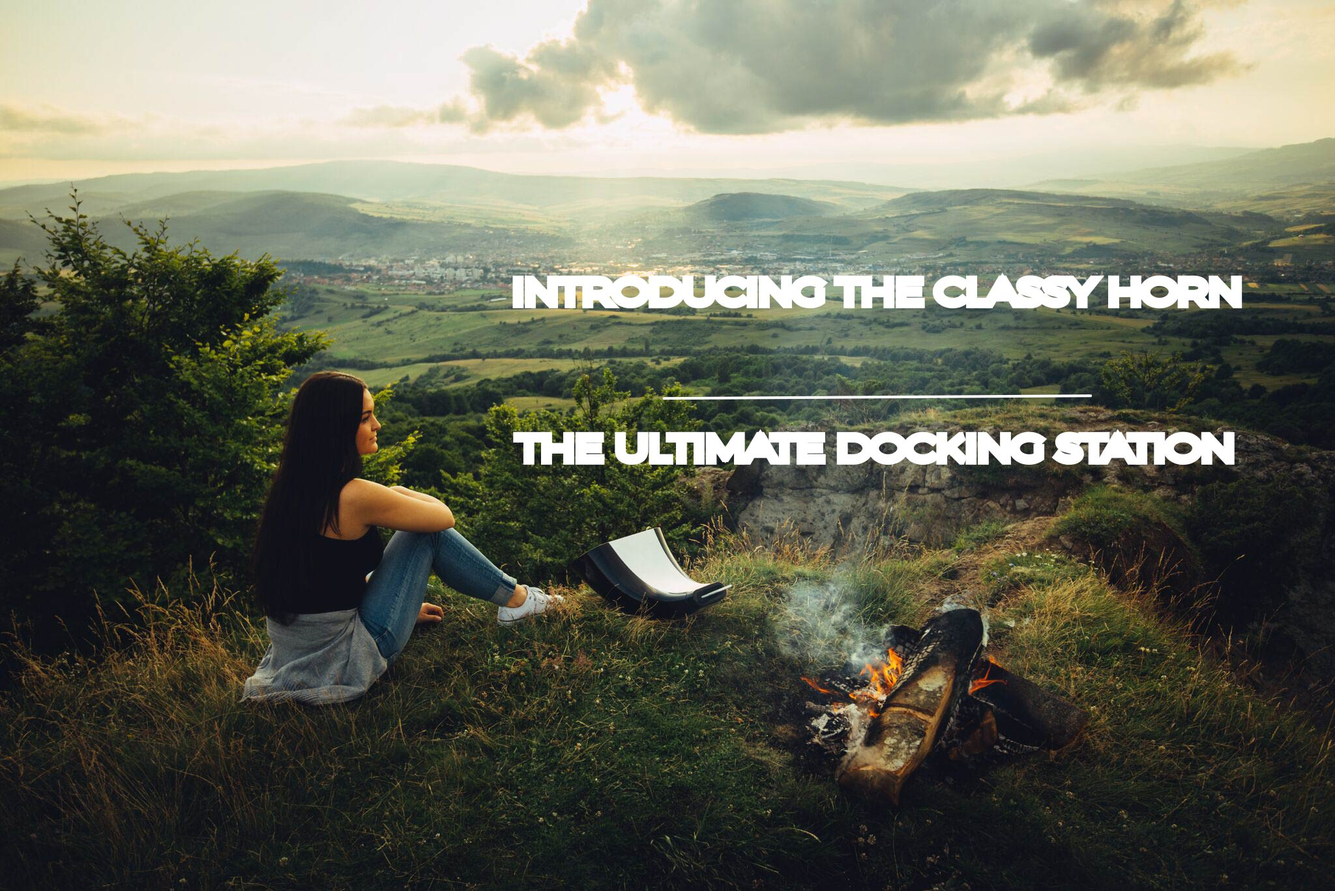
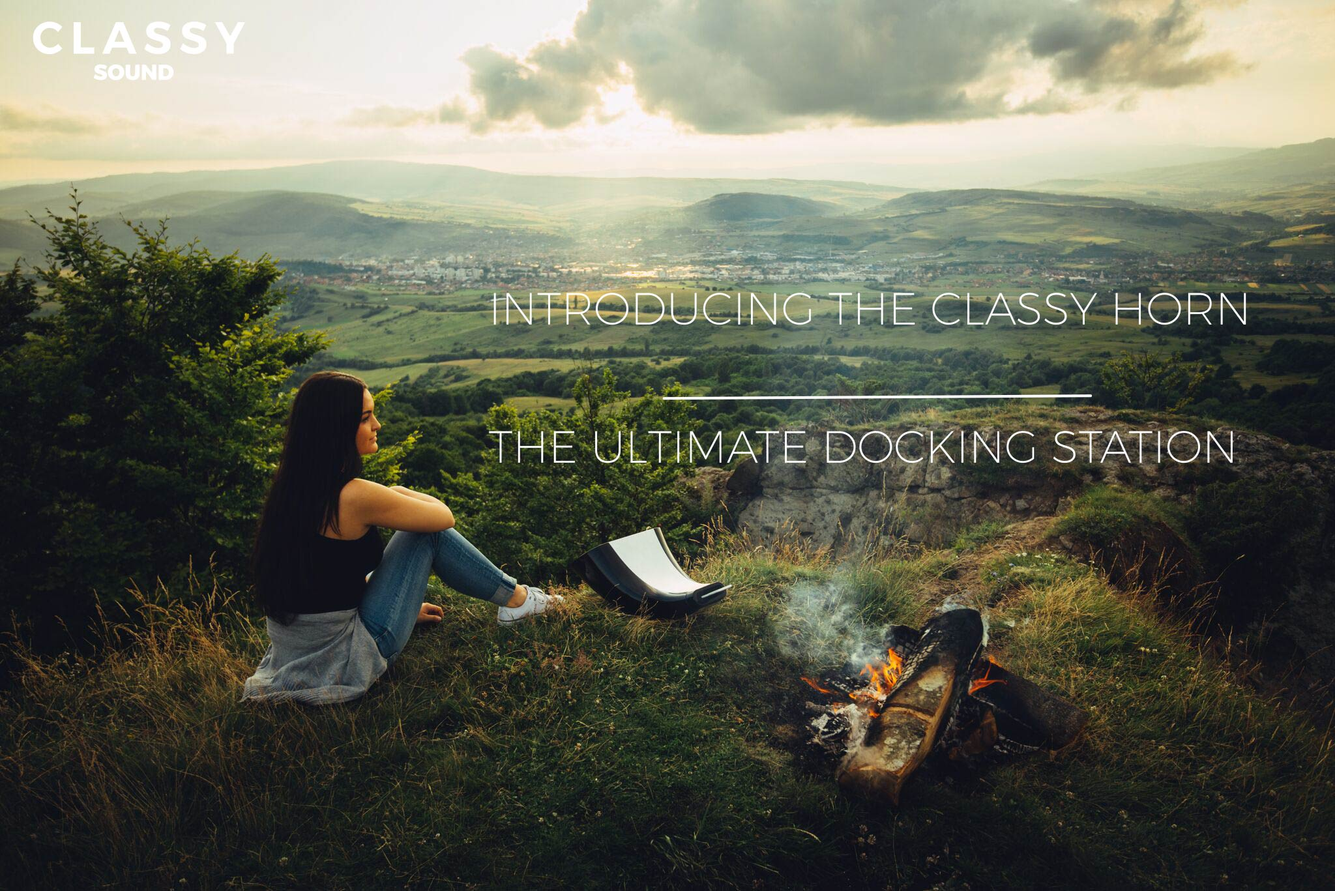
footer 1

Changed region(s): [[0.375, 0.3072, 0.9375, 0.3687], [0.375, 0.4609, 0.9375, 0.5223], [0.0, 0.0, 0.1875, 0.0922]]

diff --git a/index.html b/index.html
@@ -11,19 +11,18 @@
     <title></title>
 </head>
 <body>
-  <div class="container-fluid header">
+  <div class="container-fluid">
     <div class="container">
       <div class="row">
         <div class="headerKepContainer">
-          <img src="./Content/images/classy_sound.png" class="img-responsive classySound col-xs-2" alt="classySound">
-          <div class="iconokContainer col-xs-3">
-            <div class="displayinline iconok col-xs-4">
+          <div class="iconokContainer">
+            <div class="displayinline" style="margin-right:10px;">
               <a href="https://twitter.com/classy_sounds"><img src="./Content/images/twitter.png" class="img-responsive" alt="tw"></a>
             </div>
-            <div class="displayinline iconok col-xs-4">
+            <div class="displayinline" style="margin-right:10px;">
               <a href="https://www.instagram.com/classysound/"><img src="./Content/images/insta.png" class="img-responsive" alt="ins"></a>
             </div>
-            <div class="displayinline iconok col-xs-4">
+            <div class="displayinline" style="margin-right:10px;">
               <a href="https://www.facebook.com/ClassySoundGlobal/"><img src="./Content/images/fb.png" class="img-responsive" alt="fb"></a>
             </div>
           </div>
@@ -185,6 +184,42 @@
         <div class="col-xs-3 col-xs-offset-1"><img src="./Content/images/csapat1.png" style="height: 40vw;" alt="csapat1"></div>
         <div class="col-xs-3"><img src="./Content/images/csapat2.png" style="height: 40vw; margin-left:2vw;" alt="csapat2"></div>
         <div class="col-xs-3"><img src="./Content/images/csapat3.png" style="height: 19vw; margin-left:2vw; padding-left:2vw; padding-right:2vw;" alt="csapat3"></div>
+      </div>
+    </div>
+  </div>
+  <div class="container-fluid" style="background-color: black; margin-top: 7vw;">
+    <div class="container" style="margin-top:2vw;">
+      <div class="row">
+        <div class="displayinline">
+          <a href=""><span class="footerLinks">FAQ</span></a>
+        </div>
+        <div class="displayinline">
+          <a href=""><span class="footerLinks">PRESS</span></a>
+        </div>
+        <div class="displayinline">
+          <a href=""><span class="footerLinks">CONTACT</span></a>
+        </div>
+        <div class="displayinline">
+          <a href=""><span class="footerLinks">SALES</span></a>
+        </div>
+        <div class="displayinline" style="float:right;">
+          <div class="displayinline" style="margin-right:10px;">
+            <a href="https://twitter.com/classy_sounds"><img src="./Content/images/twitter.png" class="img-responsive" alt="tw"></a>
+          </div>
+          <div class="displayinline" style="margin-right:10px;">
+            <a href="https://www.instagram.com/classysound/"><img src="./Content/images/insta.png" class="img-responsive" alt="ins"></a>
+          </div>
+          <div class="displayinline" style="margin-right:10px;">
+            <a href="https://www.facebook.com/ClassySoundGlobal/"><img src="./Content/images/fb.png" class="img-responsive" alt="fb"></a>
+          </div>
+        </div>
+      </div>
+      <div class="row" style="margin-top:2vw;">
+        <input placeholder="Valid Email Address" class="emailInput3" required>
+        <button type="button" class="btn pull-center emailInputBtn3"><span style="font-size:1vw;">KEEP ME UPDATED<span></button>
+      </div>
+      <div class="row text-right" style="margin-bottom: 5vw;">
+        <span style="color: white;">Copyright © 2017 Classy Sound LLC. All rights reserved.</span>
       </div>
     </div>
   </div>

diff --git a/Css/Style.css b/Css/Style.css
@@ -1,35 +1,10 @@
-.header {
-    vertical-align: baseline;
-    background: transparent;
-    position: absolute;
-    top: 0;
-    right: 0;
-    bottom: 0;
-    left: 0;
-    height: 10%;
-    background-color: rgba(35, 35, 35, 0.6);
-    border-top: 0px solid rgba(47, 46, 46, 1);
-    border-bottom: 0px solid rgba(47, 46, 46, 1);
-}
-
-.classySound {
-  position: absolute;
-  top: 10px;
-  left: 5%;
-}
-
 .iconokContainer {
   position: absolute;
   top: 10px;
   right: 5%;
 }
 
-.iconok {
-
-}
-
 .headerKepContainer {
-  margin-top: 2%;
   position: relative;
 }
 
@@ -204,4 +179,28 @@
 .ourTeamContainer {
   padding-top: 5vw;
   padding-bottom: 4vw;
+}
+
+.footerLinks {
+  color: #FFFFFF;
+  margin-right: 15px;
+}
+
+.emailInput3 {
+  border-width: 0px;
+  border-color: rgba(255,255,255,1);
+  background-color: rgba(209,209,209,1);
+  color: rgba(0,0,0,1);
+  font: normal normal normal 17px/21px avenir-lt-w01_35-light1475496,sans-serif;
+  padding-left: 10px;
+  width: 30%;
+  height: 30px;
+}
+
+.emailInputBtn3 {
+  width: 14%;
+  background-color: rgba(255,255,255,0.03) !important;
+  border-color: rgba(255,255,255,1);
+  border-width: 1px;
+  color: rgba(255,255,255,1);
 }
